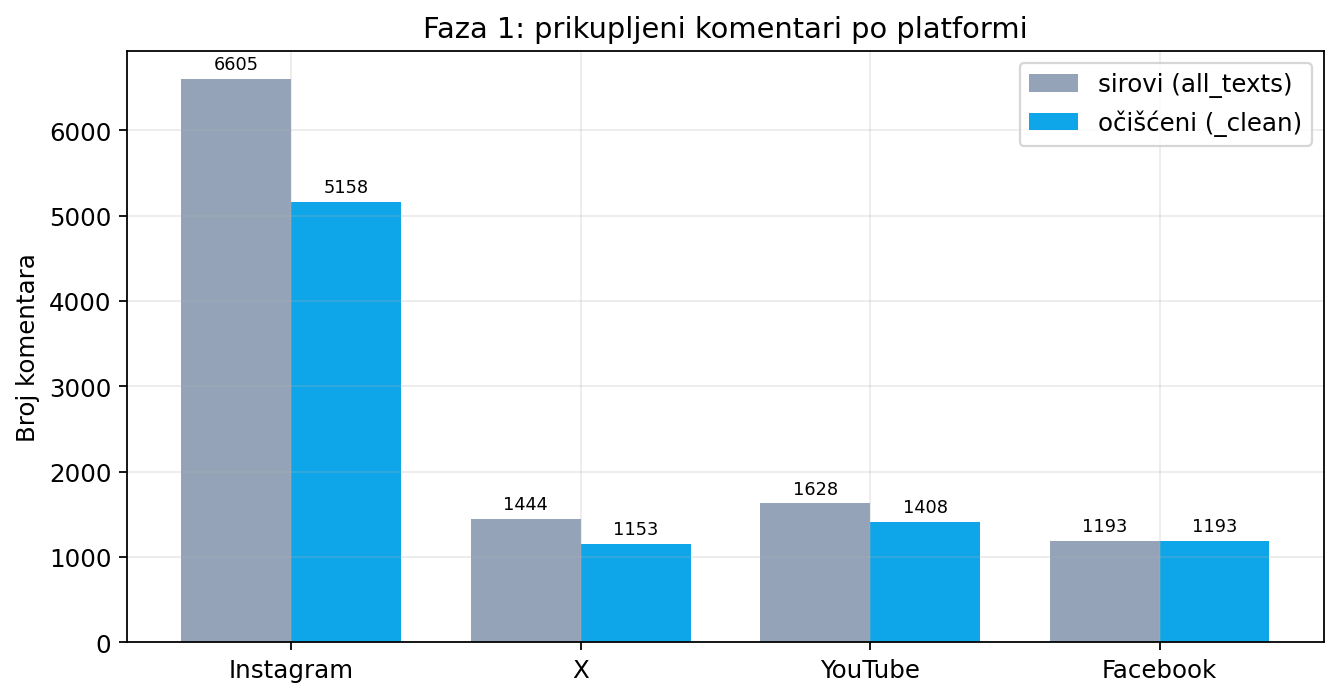
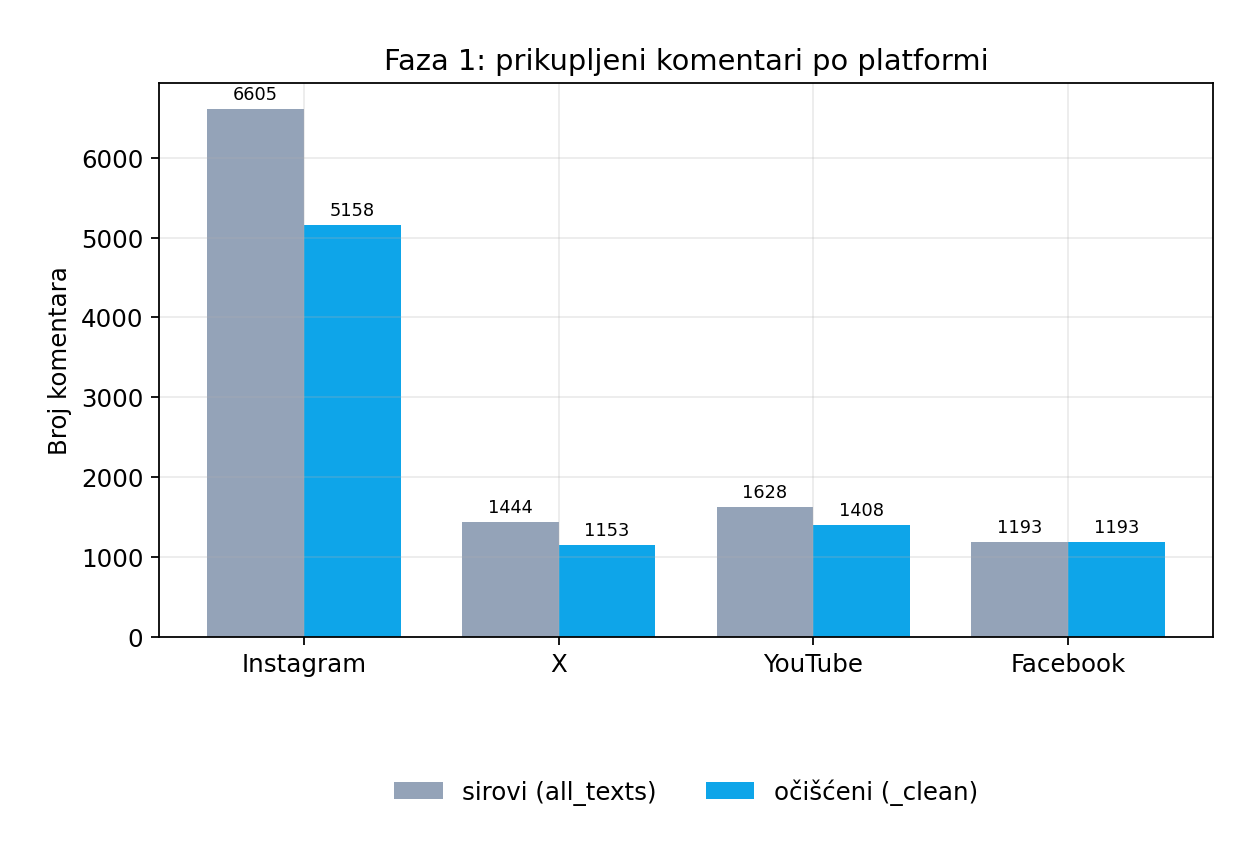
Reports updated

diff --git a/phase3_model_training/analyze_phase1_phase2.py b/phase3_model_training/analyze_phase1_phase2.py
@@ -161,11 +161,27 @@ def setup_style() -> None:
     )
 
 
+def place_legend(ax, ncol: int | None = None) -> None:
+    """Legenda ispod grafikona, van oblasti crtanja."""
+    handles, labels = ax.get_legend_handles_labels()
+    if not handles:
+        return
+    ncol = ncol or min(len(handles), 4)
+    ax.legend(
+        handles,
+        labels,
+        loc="upper center",
+        bbox_to_anchor=(0.5, -0.22),
+        ncol=ncol,
+        frameon=False,
+        borderaxespad=0.4,
+    )
+
+
 def save_fig(name: str) -> Path:
     OUT_DIR.mkdir(parents=True, exist_ok=True)
     path = OUT_DIR / name
-    plt.tight_layout()
-    plt.savefig(path, dpi=160, bbox_inches="tight")
+    plt.savefig(path, dpi=160, bbox_inches="tight", pad_inches=0.3)
     plt.close()
     return path
 
@@ -220,7 +236,7 @@ def plot_label_bars(counts: Counter) -> Path:
         ax.text(b.get_x() + b.get_width() / 2, v + max(vals) * 0.01, str(v), ha="center", fontweight="bold")
     ideal = sum(vals) / 3
     ax.axhline(ideal, color="#9ca3af", linestyle="--", label=f"idealno uravnoteženo ({ideal:.0f})")
-    ax.legend()
+    place_legend(ax, ncol=1)
     return save_fig("03_label_bars.png")
 
 
@@ -243,7 +259,7 @@ def plot_length_hist(by_label: dict[str, list[int]]) -> Path:
     ax.set_xlabel("Broj tokena (reči) po komentaru")
     ax.set_ylabel("Frekvencija")
     ax.set_title("Faza 2: dužina komentara po klasi")
-    ax.legend()
+    place_legend(ax)
     return save_fig("04_length_by_label.png")
 
 
@@ -275,7 +291,7 @@ def plot_phase1_by_platform(raw_by: dict[str, int], clean_by: dict[str, int]) ->
     ax.set_xticklabels(names)
     ax.set_ylabel("Broj komentara")
     ax.set_title("Faza 1: prikupljeni komentari po platformi")
-    ax.legend()
+    place_legend(ax, ncol=2)
     ymax = max(raw_vals + clean_vals + [1])
     for bars in (b1, b2):
         for bar in bars:
@@ -300,7 +316,7 @@ def plot_annotated_by_platform(rows: list[tuple[str, str, str]]) -> Path:
     ax.set_xticklabels(names)
     ax.set_ylabel("Broj anotiranih komentara")
     ax.set_title("Faza 2: anotirani primeri po platformi (stacked po klasi)")
-    ax.legend()
+    place_legend(ax)
     for i, p in enumerate(names):
         total = int(sum(by_plat[p].values()))
         ax.text(i, total + max(bottoms) * 0.01, str(total), ha="center", va="bottom", fontweight="bold")
@@ -337,8 +353,8 @@ def plot_class_share_by_platform(rows: list[tuple[str, str, str]]) -> Path:
     ax.set_xticklabels(names)
     ax.set_ylabel("Udeo klase (%)")
     ax.set_title("Faza 2: udeo klasa unutar svake platforme")
-    ax.legend()
     ax.set_ylim(0, 100)
+    place_legend(ax)
     return save_fig("09_class_share_by_platform.png")
 
 

diff --git a/phase3_model_training/baseline/report_baseline.py b/phase3_model_training/baseline/report_baseline.py
@@ -53,11 +53,27 @@ def setup_style() -> None:
     )
 
 
+def place_legend(ax, ncol: int | None = None) -> None:
+    """Legenda ispod grafikona, van oblasti crtanja."""
+    handles, labels = ax.get_legend_handles_labels()
+    if not handles:
+        return
+    ncol = ncol or min(len(handles), 4)
+    ax.legend(
+        handles,
+        labels,
+        loc="upper center",
+        bbox_to_anchor=(0.5, -0.22),
+        ncol=ncol,
+        frameon=False,
+        borderaxespad=0.4,
+    )
+
+
 def save_fig(name: str) -> Path:
     OUT_DIR.mkdir(parents=True, exist_ok=True)
     path = OUT_DIR / name
-    plt.tight_layout()
-    plt.savefig(path, dpi=160, bbox_inches="tight")
+    plt.savefig(path, dpi=160, bbox_inches="tight", pad_inches=0.3)
     plt.close()
     return path
 
@@ -127,7 +143,7 @@ def plot_grouped(rows: list[dict], key: str, order: tuple[str, ...], title: str,
         ax.set_xticklabels(["uključen", "isključen"])
     ax.set_ylabel("prosečan macro-F1")
     ax.set_title(title)
-    ax.legend()
+    place_legend(ax)
     return save_fig(fname)
 
 
@@ -183,7 +199,7 @@ def plot_best_per_model_class(rows: list[dict]) -> Path:
     ax.set_ylabel("F1")
     ax.set_ylim(0, 1.05)
     ax.set_title("Najbolja konfiguracija svakog modela — F1 po klasi")
-    ax.legend()
+    place_legend(ax)
     return save_fig("07_best_model_per_class.png")
 
 

diff --git a/phase3_model_training/encoder/train_encoder.py b/phase3_model_training/encoder/train_encoder.py
@@ -359,10 +359,17 @@ def main() -> int:
     use_cuda = torch.cuda.is_available()
     print(f"Uredjaj: {'cuda' if use_cuda else 'cpu'}")
     print("Framework: Simple Transformers (ClassificationModel)")
-    if not use_cuda:
+    if use_cuda:
+        print(f"GPU: {torch.cuda.get_device_name(0)}", flush=True)
+    else:
         print(
-            "Upozorenje: nema GPU — fine-tuning ce biti spor. "
-            "Za puni eksperiment preporucen je Google Colab / Azure.",
+            "Upozorenje: PyTorch ne vidi CUDA, iako racunar mozda ima NVIDIA GPU.\n"
+            f"  torch={torch.__version__}  torch.version.cuda={torch.version.cuda}\n"
+            "  pip install torch sa PyPI skoro uvek stavi CPU build.\n"
+            "  Provera: python -c \"import torch; print(torch.__version__, torch.cuda.is_available())\"\n"
+            "  Popravka (NVIDIA, CUDA 12.1):\n"
+            "    pip uninstall torch torchvision torchaudio -y\n"
+            "    pip install torch torchvision torchaudio --index-url https://download.pytorch.org/whl/cu121",
             flush=True,
         )
 
